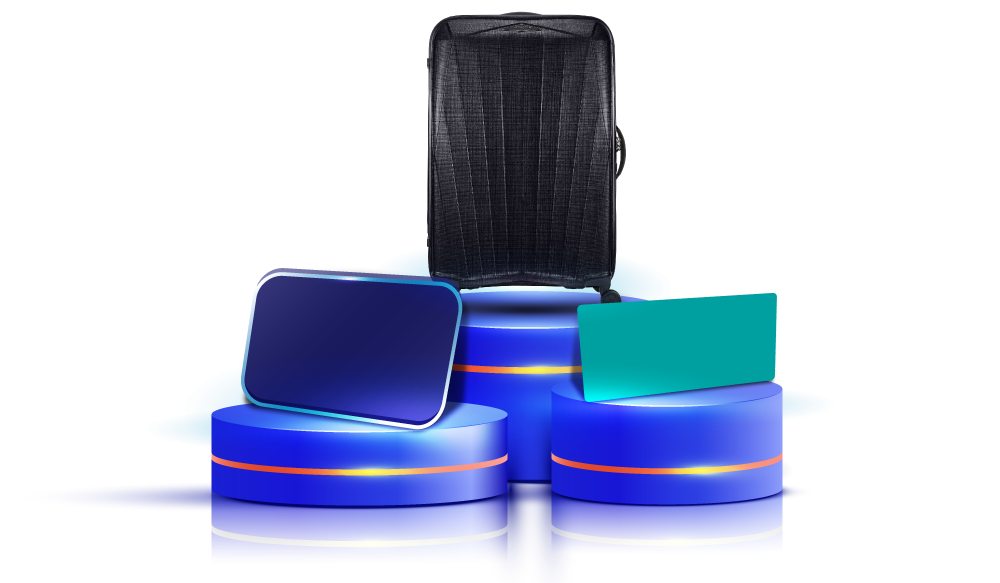
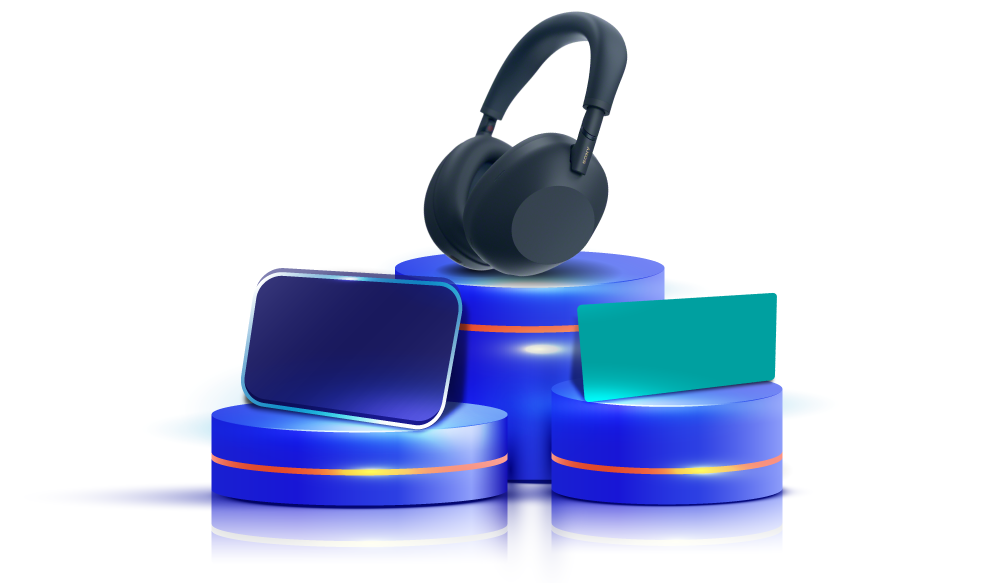
alfred

Changed region(s): [[0.372, 0.0, 0.682, 0.6792], [0.496, 0.8336, 0.558, 0.9262], [0.496, 0.7719, 0.527, 0.8027]]

diff --git a/index.html b/index.html
@@ -4,37 +4,74 @@
 <meta charset="utf-8">
 <meta name="viewport" content="width=device-width,initial-scale=1">
 <title>HLB Credit Card Mobile Wallet Rewards</title>
-<meta name="description" content="Apply for an HLB Credit Card, make 3 mobile wallet payments and stand a chance to win RM2,000 cashback, 20,000 Enrich Points or a Watsons RM2,000 e-voucher.">
+<meta name="description" content="Apply for an HLB Credit Card, make 3 mobile wallet payments and stand a chance to win RM2,000 cashback, Sony Wireless Noise Cancelling Headphones or a Watsons RM2,000 e-voucher.">
 <link rel="canonical" href="https://www.hlb.com.my/en/personal-banking/promotions/cards-acquisition-promotion.html">
 <meta property="og:type" content="website">
 <meta property="og:site_name" content="Hong Leong Bank Malaysia">
 <meta property="og:title" content="HLB Credit Card Mobile Wallet Rewards">
-<meta property="og:description" content="Apply for an HLB Credit Card and stand a chance to win RM2,000 cashback, 20,000 Enrich Points or a Watsons RM2,000 e-voucher.">
+<meta property="og:description" content="Apply for an HLB Credit Card and stand a chance to win RM2,000 cashback, Sony Wireless Noise Cancelling Headphones or a Watsons RM2,000 e-voucher.">
 <meta property="og:url" content="https://www.hlb.com.my/en/personal-banking/promotions/cards-acquisition-promotion.html">
-<meta property="og:image" content="https://www.hlb.com.my/en/personal-banking/promotions/images/HERO_4.png">
-<meta property="og:image:secure_url" content="https://www.hlb.com.my/en/personal-banking/promotions/images/HERO_4.png">
+<meta property="og:image" content="https://www.hlb.com.my/en/personal-banking/promotions/images/HERO.png">
+<meta property="og:image:secure_url" content="https://www.hlb.com.my/en/personal-banking/promotions/images/HERO.png">
 <meta property="og:image:type" content="image/png">
 <meta property="og:image:width" content="1000">
 <meta property="og:image:height" content="583">
-<meta property="og:image:alt" content="HLB Credit Card promotion prizes including 20,000 Enrich Points, RM2,000 cashback and a Watsons RM2,000 e-voucher">
+<meta property="og:image:alt" content="HLB Credit Card promotion prizes including Sony Wireless Noise Cancelling Headphones, RM2,000 cashback and a Watsons RM2,000 e-voucher">
 <link rel="preconnect" href="https://fonts.googleapis.com">
 <link rel="preconnect" href="https://fonts.gstatic.com" crossorigin>
 <link href="https://fonts.googleapis.com/css2?family=Noto+Sans:wght@400;700;800&family=Noto+Sans+Condensed:ital,wght@0,900;1,900&display=swap" rel="stylesheet">
 <style>
-.hlb_20260921_promotion_page{--ink:#0f1c45;width:100%;max-width:1000px;margin:0 auto;background:#fff;color:var(--ink);font-family:"Noto Sans",sans-serif;text-align:center;overflow:hidden}.hlb_20260921_promotion_page,.hlb_20260921_promotion_page *,.hlb_20260921_promotion_page *::before,.hlb_20260921_promotion_page *::after{box-sizing:border-box}.hlb_20260921_promotion_page :where(p){margin:0}.hlb_20260921_promotion_intro{max-width:700px;margin:auto;padding:53px 12px 0;font-size:19px;line-height:1.3}.hlb_20260921_promotion_intro p+p{margin-top:28px}.hlb_20260921_promotion_hero{margin-top:22px}.hlb_20260921_promotion_hero-art{position:relative;width:100%;container-type:inline-size}.hlb_20260921_promotion_hero-art img{display:block;width:100%;height:auto}.hlb_20260921_promotion_enrich-prize{position:absolute;z-index:1;top:9%;left:32.0%;display:flex;width:42%;flex-direction:column;align-items:center;color:#c99a2d;font-family:"Noto Sans",sans-serif;font-weight:800;line-height:.88;text-align:center;white-space:nowrap;cursor:text;user-select:text}.hlb_20260921_promotion_hero-art .hlb_20260921_promotion_enrich-logo{display:block;width:38%;height:auto;margin:0 0 .18em}.hlb_20260921_promotion_enrich-prize strong{font-size:84px;font-size:8.4cqw;line-height:.86;letter-spacing:-.055em;background:linear-gradient(180deg,#ffe27a 0%,#e5b83f 58%,#b98219 100%);background-clip:text;-webkit-background-clip:text;-webkit-text-fill-color:transparent;text-shadow:0 .02em .018em rgba(91,61,0,.16)}.hlb_20260921_promotion_enrich-prize span{margin-top:.22em;font-size:29px;font-size:2.9cqw;line-height:1;font-weight:800;letter-spacing:-.035em;color:#bf8d2c}.hlb_20260921_promotion_cashback-prize,.hlb_20260921_promotion_voucher-prize{position:absolute;z-index:1;display:flex;flex-direction:column;align-items:center;justify-content:center;font-family:"Arial Narrow","Noto Sans",Arial,sans-serif;font-weight:800;text-align:center;white-space:nowrap;cursor:text;user-select:text}.hlb_20260921_promotion_cashback-prize{top:46.7%;left:24.2%;width:22%;height:25.5%;color:#ffdc72;font-family:"Noto Sans Condensed","Noto Sans",sans-serif;font-size:35px;font-size:3.5cqw;font-style:normal;font-weight:900;line-height:.92;row-gap:.06em;letter-spacing:-.055em;text-shadow:0 .018em .015em rgba(76,52,0,.18);transform:rotate(6deg);transform-origin:center center}.hlb_20260921_promotion_cashback-prize span{color:#f2d36b;background-clip:text;-webkit-background-clip:text;-webkit-text-fill-color:transparent}.hlb_20260921_promotion_cashback-prize span:first-child{background-image:linear-gradient(180deg,#ffd45a 0%,#ffe486 48%,#fff3b0 100%)}.hlb_20260921_promotion_cashback-prize span:last-child{font-size:.88em;letter-spacing:-.045em;background-image:linear-gradient(180deg,#fff3b0 0%,#ffe486 48%,#f8ca4d 100%)}.hlb_20260921_promotion_voucher-prize{top:50.6%;left:58.8%;width:20%;height:17.5%;color:#fff;font-family:"Noto Sans",sans-serif;line-height:.92;transform:rotate(-5.5deg);transform-origin:center center;text-shadow:.018em .025em 0 rgba(0,67,72,.32)}.hlb_20260921_promotion_hero-art .hlb_20260921_promotion_watsons-logo{display:block;width:60%;height:auto;margin:0 0 .16em;transform:translateX(-3%)}.hlb_20260921_promotion_voucher-prize strong{font-size:24.5px;font-size:2.45cqw;font-weight:800;letter-spacing:-.035em}.hlb_20260921_promotion_voucher-prize span{margin-top:.17em;font-size:13px;font-size:1.3cqw;font-weight:700;letter-spacing:-.035em}.hlb_20260921_promotion_visually-hidden{position:absolute!important;width:1px!important;height:1px!important;padding:0!important;margin:-1px!important;overflow:hidden!important;clip:rect(0,0,0,0)!important;white-space:nowrap!important;border:0!important}.hlb_20260921_promotion_note{font-size:12px;font-style:italic}.hlb_20260921_promotion_winner{position:relative;width:min(329px,70%);margin:12px auto 17px}.hlb_20260921_promotion_winner img{display:block;width:100%;height:auto}.hlb_20260921_promotion_winner span{position:absolute;inset:0;display:flex;align-items:center;justify-content:center;transform:translateY(-1px);font-size:36px;font-weight:800;letter-spacing:4px;white-space:nowrap}.hlb_20260921_promotion_page h2{font-size:29px;margin:0;font-weight:800}.hlb_20260921_promotion_steps{display:flex;justify-content:center;align-items:center;gap:23px;margin:23px auto 0;padding:0 16px}.hlb_20260921_promotion_step{position:relative;width:304px;min-height:210px;flex:0 1 304px;border-radius:34px;box-shadow:0 7px 16px #0005;display:flex;flex-direction:column;align-items:center;justify-content:center;padding:47px 24px 16px}.hlb_20260921_promotion_step-label{position:absolute;top:0;left:50%;transform:translateX(-50%);width:220px;height:40px;background:url('images/Step-Title-Block.png') center/contain no-repeat;color:#fff;font-size:23px;font-weight:800;line-height:37px}.hlb_20260921_promotion_step strong{font-size:22px;line-height:1.08}.hlb_20260921_promotion_step p{font-size:16px;line-height:1.13;margin-top:6px}.hlb_20260921_promotion_step ul{font-size:14px;line-height:1.18;text-align:left;padding-left:18px;margin:6px 0 0}.hlb_20260921_promotion_arrow{width:30px;height:49px;flex:none}.hlb_20260921_promotion_welcome{margin-top:44px}.hlb_20260921_promotion_welcome h2:first-child{font-size:25px;line-height:1.25}.hlb_20260921_promotion_page .hlb_20260921_promotion_welcome-copy{display:block!important;width:100%!important;max-width:none!important;margin:14px 0 0!important;padding:0 12px;font-size:19px;line-height:1.35;text-align:center!important;float:none!important;clear:both!important;align-self:stretch!important}.hlb_20260921_promotion_page .hlb_20260921_promotion_welcome-copy>span{display:block;max-width:710px;margin:0 auto;text-align:center}.hlb_20260921_promotion_page .hlb_20260921_promotion_availability{display:block;width:100%;margin:26px auto 0;font-size:19px;text-align:center!important;float:none;clear:both}.hlb_20260921_promotion_cashback{display:block;width:min(547px,82%);height:auto;margin:35px auto 22px}.hlb_20260921_promotion_wallets{display:flex;justify-content:center;align-items:center;gap:40px;margin:51px auto 0;padding:0 20px}.hlb_20260921_promotion_wallets img{height:71px;width:auto;object-fit:contain}.hlb_20260921_promotion_wallets img:last-child{height:70px}.hlb_20260921_promotion_apply{display:block;width:min(271px,72vw);height:auto;margin:35px auto 0;transition:transform .22s ease,filter .22s ease}.hlb_20260921_promotion_apply img{display:block;width:100%;height:auto;transition:filter .22s ease;filter:drop-shadow(0 5px 4px rgba(15,28,69,.28))}.hlb_20260921_promotion_apply:hover{transform:translateY(-5px) scale(1.08);filter:brightness(1.13) saturate(1.18)}.hlb_20260921_promotion_apply:hover img{filter:drop-shadow(0 12px 8px rgba(245,34,71,.42))}.hlb_20260921_promotion_apply:active{transform:translateY(-1px) scale(1.03)}.hlb_20260921_promotion_apply:focus-visible{outline:3px solid var(--ink);outline-offset:5px;border-radius:12px}.hlb_20260921_promotion_collaboration{margin-top:34px;font-size:21px}.hlb_20260921_promotion_visa{display:block;width:min(124px,38vw);height:auto;margin:22px auto 0}.hlb_20260921_promotion_page footer{font-size:15px;margin:40px auto 27px;padding:0 15px}
+.hlb_20260921_promotion_page{--ink:#0f1c45;width:100%;max-width:1000px;margin:0 auto;background:#fff;color:var(--ink);font-family:"Noto Sans",sans-serif;text-align:center;overflow:hidden}.hlb_20260921_promotion_page,.hlb_20260921_promotion_page *,.hlb_20260921_promotion_page *::before,.hlb_20260921_promotion_page *::after{box-sizing:border-box}.hlb_20260921_promotion_page :where(p){margin:0}.hlb_20260921_promotion_intro{max-width:700px;margin:auto;padding:53px 12px 0;font-size:19px;line-height:1.3}.hlb_20260921_promotion_intro p+p{margin-top:28px}.hlb_20260921_promotion_hero{margin-top:22px}.hlb_20260921_promotion_hero-art{position:relative;width:100%;container-type:inline-size}.hlb_20260921_promotion_hero-art img{display:block;width:100%;height:auto}.hlb_20260921_promotion_headphones{position:absolute;top:22%;right:60%;width:22%;font-size:clamp(15px,2cqw,20px);font-weight:800;line-height:1;text-align:right;white-space:nowrap}.hlb_20260921_promotion_cashback-prize,.hlb_20260921_promotion_voucher-prize{position:absolute;z-index:1;display:flex;flex-direction:column;align-items:center;justify-content:center;font-family:"Arial Narrow","Noto Sans",Arial,sans-serif;font-weight:800;text-align:center;white-space:nowrap;cursor:text;user-select:text}.hlb_20260921_promotion_cashback-prize{top:46.7%;left:24.2%;width:22%;height:25.5%;color:#ffdc72;font-family:"Noto Sans Condensed","Noto Sans",sans-serif;font-size:35px;font-size:3.5cqw;font-style:normal;font-weight:900;line-height:.92;row-gap:.06em;letter-spacing:-.055em;text-shadow:0 .018em .015em rgba(76,52,0,.18);transform:rotate(6deg);transform-origin:center center}.hlb_20260921_promotion_cashback-prize span{color:#f2d36b;background-clip:text;-webkit-background-clip:text;-webkit-text-fill-color:transparent}.hlb_20260921_promotion_cashback-prize span:first-child{background-image:linear-gradient(180deg,#ffd45a 0%,#ffe486 48%,#fff3b0 100%)}.hlb_20260921_promotion_cashback-prize span:last-child{font-size:.88em;letter-spacing:-.045em;background-image:linear-gradient(180deg,#fff3b0 0%,#ffe486 48%,#f8ca4d 100%)}.hlb_20260921_promotion_voucher-prize{top:50.6%;left:58.8%;width:20%;height:17.5%;color:#fff;font-family:"Noto Sans",sans-serif;line-height:.92;transform:rotate(-5.5deg);transform-origin:center center;text-shadow:.018em .025em 0 rgba(0,67,72,.32)}.hlb_20260921_promotion_hero-art .hlb_20260921_promotion_watsons-logo{display:block;width:60%;height:auto;margin:0 0 .16em;transform:translateX(-3%)}.hlb_20260921_promotion_voucher-prize strong{font-size:24.5px;font-size:2.45cqw;font-weight:800;letter-spacing:-.035em}.hlb_20260921_promotion_voucher-prize span{margin-top:.17em;font-size:13px;font-size:1.3cqw;font-weight:700;letter-spacing:-.035em}.hlb_20260921_promotion_visually-hidden{position:absolute!important;width:1px!important;height:1px!important;padding:0!important;margin:-1px!important;overflow:hidden!important;clip:rect(0,0,0,0)!important;white-space:nowrap!important;border:0!important}.hlb_20260921_promotion_note{font-size:12px;font-style:italic}.hlb_20260921_promotion_winner{position:relative;width:min(329px,70%);margin:12px auto 17px}.hlb_20260921_promotion_winner img{display:block;width:100%;height:auto}.hlb_20260921_promotion_winner span{position:absolute;inset:0;display:flex;align-items:center;justify-content:center;transform:translateY(-1px);font-size:36px;font-weight:800;letter-spacing:4px;white-space:nowrap}.hlb_20260921_promotion_page h2{font-size:29px;margin:0;font-weight:800}.hlb_20260921_promotion_steps{display:flex;justify-content:center;align-items:center;gap:23px;margin:23px auto 0;padding:0 16px}.hlb_20260921_promotion_step{position:relative;width:304px;min-height:210px;flex:0 1 304px;border-radius:34px;box-shadow:0 7px 16px #0005;display:flex;flex-direction:column;align-items:center;justify-content:center;padding:47px 24px 16px}.hlb_20260921_promotion_step-label{position:absolute;top:0;left:50%;transform:translateX(-50%);width:220px;height:40px;background:url('images/Step-Title-Block.png') center/contain no-repeat;color:#fff;font-size:23px;font-weight:800;line-height:37px}.hlb_20260921_promotion_step strong{font-size:22px;line-height:1.08}.hlb_20260921_promotion_step p{font-size:16px;line-height:1.13;margin-top:6px}.hlb_20260921_promotion_step ul{font-size:14px;line-height:1.18;text-align:left;padding-left:18px;margin:6px 0 0}.hlb_20260921_promotion_arrow{width:30px;height:49px;flex:none}.hlb_20260921_promotion_welcome{margin-top:44px}.hlb_20260921_promotion_welcome h2:first-child{font-size:25px;line-height:1.25}.hlb_20260921_promotion_page .hlb_20260921_promotion_welcome-copy{display:block!important;width:100%!important;max-width:none!important;margin:14px 0 0!important;padding:0 12px;font-size:19px;line-height:1.35;text-align:center!important;float:none!important;clear:both!important;align-self:stretch!important}.hlb_20260921_promotion_page .hlb_20260921_promotion_welcome-copy>span{display:block;max-width:710px;margin:0 auto;text-align:center}.hlb_20260921_promotion_page .hlb_20260921_promotion_availability{display:block;width:100%;margin:26px auto 0;font-size:19px;text-align:center!important;float:none;clear:both}.hlb_20260921_promotion_cashback{display:block;width:min(547px,82%);height:auto;margin:35px auto 22px}.hlb_20260921_promotion_wallets{display:flex;justify-content:center;align-items:center;gap:40px;margin:51px auto 0;padding:0 20px}.hlb_20260921_promotion_wallets img{height:71px;width:auto;object-fit:contain}.hlb_20260921_promotion_wallets img:last-child{height:70px}.hlb_20260921_promotion_apply{display:block;width:min(271px,72vw);height:auto;margin:35px auto 0;transition:transform .22s ease,filter .22s ease}.hlb_20260921_promotion_apply img{display:block;width:100%;height:auto;transition:filter .22s ease;filter:drop-shadow(0 5px 4px rgba(15,28,69,.28))}.hlb_20260921_promotion_apply:hover{transform:translateY(-5px) scale(1.08);filter:brightness(1.13) saturate(1.18)}.hlb_20260921_promotion_apply:hover img{filter:drop-shadow(0 12px 8px rgba(245,34,71,.42))}.hlb_20260921_promotion_apply:active{transform:translateY(-1px) scale(1.03)}.hlb_20260921_promotion_apply:focus-visible{outline:3px solid var(--ink);outline-offset:5px;border-radius:12px}.hlb_20260921_promotion_collaboration{margin-top:34px;font-size:21px}.hlb_20260921_promotion_visa{display:block;width:min(124px,38vw);height:auto;margin:22px auto 0}.hlb_20260921_promotion_page footer{font-size:15px;margin:40px auto 27px;padding:0 15px}
 
-@media(max-width:700px){.cc-applynow a.cta-btn.fixed{position:relative!important;top:auto!important;right:auto!important;bottom:auto!important;left:auto!important;width:100%!important}.hlb_20260921_promotion_page .hlb_20260921_promotion_welcome h2:first-child{font-size:25px;line-height:1.25}.hlb_20260921_promotion_cashback{width:min(500px,76%)}.hlb_20260921_promotion_intro{padding-top:30px;font-size:16px}.hlb_20260921_promotion_page h2{font-size:25px}.hlb_20260921_promotion_steps{gap:12px}.hlb_20260921_promotion_step{min-height:190px;padding:45px 14px 12px;border-radius:24px}.hlb_20260921_promotion_step-label{width:min(190px,75%);font-size:19px}.hlb_20260921_promotion_step strong{font-size:clamp(15px,3vw,20px)}.hlb_20260921_promotion_step p{font-size:clamp(12px,2.5vw,16px)}.hlb_20260921_promotion_step ul{font-size:clamp(11px,2.3vw,14px)}.hlb_20260921_promotion_arrow{width:20px;height:auto}.hlb_20260921_promotion_page .hlb_20260921_promotion_welcome-copy,.hlb_20260921_promotion_page .hlb_20260921_promotion_availability{font-size:16px}.hlb_20260921_promotion_wallets{gap:24px;padding:0 20px}.hlb_20260921_promotion_wallets img,.hlb_20260921_promotion_wallets img:last-child{max-width:25%;height:auto}}
-@media(max-width:480px){.hlb_20260921_promotion_hero-art{width:min(500px,130vw);max-width:none;margin-left:50%;transform:translateX(-50%)}.hlb_20260921_promotion_winner span{font-size:clamp(22px,7vw,36px);letter-spacing:2px}.hlb_20260921_promotion_step ul{font-size:13px;line-height:1.22}.hlb_20260921_promotion_intro{font-size:15px;padding-left:20px;padding-right:20px}.hlb_20260921_promotion_intro p+p{margin-top:20px}.hlb_20260921_promotion_steps{flex-direction:column;gap:14px}.hlb_20260921_promotion_step{width:min(304px,100%);min-height:185px;flex:auto}.hlb_20260921_promotion_arrow{transform:rotate(90deg);width:25px}.hlb_20260921_promotion_page .hlb_20260921_promotion_welcome-copy,.hlb_20260921_promotion_page .hlb_20260921_promotion_availability{padding:0 20px}.hlb_20260921_promotion_collaboration{font-size:18px}.hlb_20260921_promotion_page footer{font-size:13px}}
+@media(max-width:700px){.hlb_20260921_promotion_headphones{font-size:clamp(10px,2vw,15px)}.cc-applynow a.cta-btn.fixed{position:relative!important;top:auto!important;right:auto!important;bottom:auto!important;left:auto!important;width:100%!important}.hlb_20260921_promotion_page .hlb_20260921_promotion_welcome h2:first-child{font-size:25px;line-height:1.25}.hlb_20260921_promotion_cashback{width:min(500px,76%)}.hlb_20260921_promotion_intro{padding-top:30px;font-size:16px}.hlb_20260921_promotion_page h2{font-size:25px}.hlb_20260921_promotion_steps{gap:12px}.hlb_20260921_promotion_step{min-height:190px;padding:45px 14px 12px;border-radius:24px}.hlb_20260921_promotion_step-label{width:min(190px,75%);font-size:19px}.hlb_20260921_promotion_step strong{font-size:clamp(15px,3vw,20px)}.hlb_20260921_promotion_step p{font-size:clamp(12px,2.5vw,16px)}.hlb_20260921_promotion_step ul{font-size:clamp(11px,2.3vw,14px)}.hlb_20260921_promotion_arrow{width:20px;height:auto}.hlb_20260921_promotion_page .hlb_20260921_promotion_welcome-copy,.hlb_20260921_promotion_page .hlb_20260921_promotion_availability{font-size:16px}.hlb_20260921_promotion_wallets{gap:24px;padding:0 20px}.hlb_20260921_promotion_wallets img,.hlb_20260921_promotion_wallets img:last-child{max-width:25%;height:auto}}
+@media(max-width:480px){.hlb_20260921_promotion_headphones{font-size:clamp(9px,2.6vw,12px)}.hlb_20260921_promotion_hero-art{width:min(500px,130vw);max-width:none;margin-left:50%;transform:translateX(-50%)}.hlb_20260921_promotion_winner span{font-size:clamp(22px,7vw,36px);letter-spacing:2px}.hlb_20260921_promotion_step ul{font-size:13px;line-height:1.22}.hlb_20260921_promotion_intro{font-size:15px;padding-left:20px;padding-right:20px}.hlb_20260921_promotion_intro p+p{margin-top:20px}.hlb_20260921_promotion_steps{flex-direction:column;gap:14px}.hlb_20260921_promotion_step{width:min(304px,100%);min-height:185px;flex:auto}.hlb_20260921_promotion_arrow{transform:rotate(90deg);width:25px}.hlb_20260921_promotion_page .hlb_20260921_promotion_welcome-copy,.hlb_20260921_promotion_page .hlb_20260921_promotion_availability{padding:0 20px}.hlb_20260921_promotion_collaboration{font-size:18px}.hlb_20260921_promotion_page footer{font-size:13px}}
 @media(prefers-reduced-motion:reduce){.hlb_20260921_promotion_page,.hlb_20260921_promotion_page *{scroll-behavior:auto!important}.hlb_20260921_promotion_apply,.hlb_20260921_promotion_apply img{transition:none}.hlb_20260921_promotion_apply:hover{transform:none}}
+</style>
+<style>
+/* Scoped CSS scroll-driven motion */
+.hlb_20260921_promotion_hero-art>img,.hlb_20260921_promotion_winner,.hlb_20260921_promotion_cashback{transform-origin:center center}
+.hlb_20260921_promotion_headphones-copy{display:block;animation:hlb_20260921_promotion_float-a 4.8s ease-in-out infinite}
+.hlb_20260921_promotion_cashback-prize>span{animation:hlb_20260921_promotion_float-b 5.2s ease-in-out .2s infinite}
+.hlb_20260921_promotion_voucher-prize>*{animation:hlb_20260921_promotion_float-a 4.6s ease-in-out .4s infinite}
+.hlb_20260921_promotion_apply{position:relative;overflow:hidden;border-radius:18px;view-timeline-name:--hlb_20260921_promotion_apply-timeline;view-timeline-axis:block}
+.hlb_20260921_promotion_apply::after{content:"";position:absolute;top:-30%;bottom:-30%;left:-55%;width:32%;pointer-events:none;background:linear-gradient(100deg,transparent,rgba(255,255,255,.72),transparent);transform:skewX(-18deg)}
+.hlb_20260921_promotion_apply::before{content:"";position:absolute;inset:3px;z-index:-1;border-radius:18px;box-shadow:0 0 0 0 rgba(245,34,71,0);animation:hlb_20260921_promotion_cta-breathe 2.8s ease-in-out infinite}
+
+.hlb_20260921_promotion_scroll-scrub .hlb_20260921_promotion_apply::after{left:calc(-55% + (var(--hlb_20260921_promotion_scroll-progress,0) * 180%))}
+
+@keyframes hlb_20260921_promotion_hero-left{from{opacity:0;translate:-38px 18px}to{opacity:1;translate:0 0}}
+@keyframes hlb_20260921_promotion_hero-right{from{opacity:0;translate:38px 18px}to{opacity:1;translate:0 0}}
+@keyframes hlb_20260921_promotion_reveal-left{from{opacity:0;translate:-28px 0}to{opacity:1;translate:0 0}}
+@keyframes hlb_20260921_promotion_reveal-right{from{opacity:0;translate:28px 0}to{opacity:1;translate:0 0}}
+@keyframes hlb_20260921_promotion_reveal-up{from{opacity:0;translate:0 22px}to{opacity:1;translate:0 0}}
+@keyframes hlb_20260921_promotion_float-a{0%,100%{translate:0 0}50%{translate:0 -5px}}
+@keyframes hlb_20260921_promotion_float-b{0%,100%{translate:0 0}50%{translate:0 -7px}}
+@keyframes hlb_20260921_promotion_cta-shine{from{left:-55%}to{left:125%}}
+@keyframes hlb_20260921_promotion_cta-breathe{0%,100%{box-shadow:0 0 0 0 rgba(245,34,71,0)}50%{box-shadow:0 0 0 9px rgba(245,34,71,.18)}}
+
+@media(prefers-reduced-motion:reduce){
+.hlb_20260921_promotion_headphones,
+.hlb_20260921_promotion_headphones-copy,
+.hlb_20260921_promotion_cashback-prize,
+.hlb_20260921_promotion_cashback-prize>span,
+.hlb_20260921_promotion_voucher-prize,
+.hlb_20260921_promotion_voucher-prize>*,
+.hlb_20260921_promotion_steps>*,
+.hlb_20260921_promotion_wallets>img,
+.hlb_20260921_promotion_apply,
+.hlb_20260921_promotion_apply::before,
+.hlb_20260921_promotion_apply::after{opacity:1;translate:0 0;animation:none!important}
+.hlb_20260921_promotion_apply::after{display:none}
+}
 </style>
 </head>
 <body>
 <main class="hlb_20260921_promotion_page">
 <section class="hlb_20260921_promotion_intro" aria-label="HLB Credit Card promotion">
 <p>Whether you’re looking for extra Cashback, more Rewards, or earn Travel Miles faster, there’s an HLB Credit Card designed to give you more.</p>
-<p>Apply today and with just 3 mobile wallet payments, you stand a chance to win a prize of your choice, either <strong>RM2,000 Cashback, 20,000 Enrich Points or Watsons E-voucher In-store.</strong> Plus, enjoy a first-year annual fee waiver on selected cards.</p>
+<p>Apply today and with just 3 mobile wallet payments, you stand a chance to win a prize of your choice, either <strong>RM2,000 Cashback, Sony Wireless Noise Cancelling Headphones or Watsons E-voucher In-store.</strong> Plus, enjoy a first-year annual fee waiver on selected cards.</p>
 </section>
-<div class="hlb_20260921_promotion_hero"><div class="hlb_20260921_promotion_hero-art"><img src="images/HERO_4.png" alt="HLB Credit Card promotion prizes: 20,000 Enrich Points, RM2,000 cashback and a Watsons RM2,000 e-voucher" width="1000" height="583"><span class="hlb_20260921_promotion_enrich-prize"><img class="hlb_20260921_promotion_enrich-logo" src="images/Enrich-Logo.png" alt="Enrich" width="172" height="44"><strong>20,000</strong><span>ENRICH POINTS</span></span><span class="hlb_20260921_promotion_cashback-prize" aria-label="RM2,000 Cashback"><span>RM2,000</span><span>CASHBACK*</span></span><span class="hlb_20260921_promotion_voucher-prize"><img class="hlb_20260921_promotion_watsons-logo" src="images/watsons.png" alt="Watsons" width="4800" height="1055"><strong>RM2,000</strong><span>E-voucher In-store</span></span></div></div>
+<div class="hlb_20260921_promotion_hero"><div class="hlb_20260921_promotion_hero-art"><img src="images/HERO_3.png" alt="HLB Credit Card promotion prizes: Sony Wireless Noise Cancelling Headphones, RM2,000 cashback and a Watsons RM2,000 e-voucher" width="1000" height="583"><span class="hlb_20260921_promotion_headphones"><span class="hlb_20260921_promotion_headphones-copy">Sony Wireless Noise<br>Cancelling Headphones<br>(WH-1000XM6)</span></span><span class="hlb_20260921_promotion_cashback-prize" aria-label="RM2,000 Cashback"><span>RM2,000</span><span>CASHBACK*</span></span><span class="hlb_20260921_promotion_voucher-prize"><img class="hlb_20260921_promotion_watsons-logo" src="images/watsons.png" alt="Watsons" width="4800" height="1055"><strong>RM2,000</strong><span>E-voucher In-store</span></span></div></div>
 <p class="hlb_20260921_promotion_note">Image shown is for illustration purpose only</p>
 <div class="hlb_20260921_promotion_winner" role="img" aria-label="x8 winners"><img src="images/Winner-Button2.png" alt="x8 winners" width="329" height="56"></div>
 <section aria-labelledby="main-steps"><h2 id="main-steps">How it works:</h2>
@@ -56,4 +93,108 @@
 <a class="hlb_20260921_promotion_apply" href="https://www.hlb.com.my/en/form/credit-card.html?icp=hlb-en-promo-cta-txt-cc-q25" aria-label="Apply Now for an HLB Credit Card"><img src="images/CTA-Button.png" alt="Apply Now" width="271" height="84"></a>
 <p class="hlb_20260921_promotion_collaboration">In collaboration with</p><img class="hlb_20260921_promotion_visa" src="images/VISA-logo.png" alt="Visa" width="154" height="50">
 <footer>Terms and Conditions apply. Pictures shown are for illustration purposes only.</footer>
-</main></body></html>
+</main><script>
+(function(){
+  var root=document.querySelector('.hlb_20260921_promotion_page');
+  if(!root)return;
+  var reduceMotion=window.matchMedia('(prefers-reduced-motion: reduce)');
+  var clamp=function(value){return Math.max(0,Math.min(1,value))};
+  var groups=[];
+
+  function addGroup(container,items){
+    if(container&&items.length)groups.push({container:container,items:items});
+  }
+  function item(element,x,y,delay){return{element:element,x:x,y:y,delay:delay||0}}
+  function progressFor(container,viewport){
+    var rect=container.getBoundingClientRect();
+    return clamp((viewport*.95-rect.top)/(viewport*.40));
+  }
+  function overshoot(progress,start,peak){
+    return progress<.8?start+(peak-start)*(progress/.8):peak+(1-peak)*((progress-.8)/.2);
+  }
+
+  var hero=root.querySelector('.hlb_20260921_promotion_hero-art');
+  var heroImage=hero&&hero.firstElementChild;
+  addGroup(hero,[
+    item(root.querySelector('.hlb_20260921_promotion_headphones'),-38,18,0),
+    item(root.querySelector('.hlb_20260921_promotion_cashback-prize'),-38,18,.12),
+    item(root.querySelector('.hlb_20260921_promotion_voucher-prize'),38,18,.24)
+  ].filter(function(entry){return entry.element}));
+
+  var winner=root.querySelector('.hlb_20260921_promotion_winner');
+  var welcome=root.querySelector('.hlb_20260921_promotion_welcome');
+  if(welcome)addGroup(welcome,[
+    item(welcome.querySelector('h2'),0,20,0),
+    item(welcome.querySelector('.hlb_20260921_promotion_welcome-copy'),0,20,.10),
+    item(welcome.querySelector('.hlb_20260921_promotion_availability'),0,20,.18)
+  ].filter(function(entry){return entry.element}));
+  var rm188=root.querySelector('.hlb_20260921_promotion_cashback');
+
+  root.querySelectorAll('.hlb_20260921_promotion_steps').forEach(function(steps){
+    var children=steps.children;
+    addGroup(steps,[item(children[0],-28,0,0),item(children[1],0,22,.12),item(children[2],28,0,.24)].filter(function(entry){return entry.element}));
+  });
+
+  var wallets=root.querySelector('.hlb_20260921_promotion_wallets');
+  if(wallets)addGroup(wallets,Array.from(wallets.children).map(function(logo,index){return item(logo,0,22,index*.12)}));
+  var apply=root.querySelector('.hlb_20260921_promotion_apply');
+  if(apply)addGroup(apply,[item(apply,0,22,0)]);
+  var collaboration=root.querySelector('.hlb_20260921_promotion_collaboration');
+  var visa=root.querySelector('.hlb_20260921_promotion_visa');
+  if(collaboration)addGroup(collaboration,[item(collaboration,0,16,0),item(visa,0,16,.16)].filter(function(entry){return entry.element}));
+
+  var special=[heroImage,winner,rm188].filter(Boolean);
+  function clearMotion(){
+    groups.forEach(function(group){group.items.forEach(function(entry){entry.element.style.removeProperty('opacity');entry.element.style.removeProperty('translate')})});
+    special.forEach(function(element){element.style.removeProperty('opacity');element.style.removeProperty('translate');element.style.removeProperty('scale');element.style.removeProperty('filter')});
+    if(apply)apply.style.removeProperty('--hlb_20260921_promotion_scroll-progress');
+  }
+
+  function render(){
+    if(reduceMotion.matches){clearMotion();return}
+    var viewport=window.innerHeight||document.documentElement.clientHeight;
+    groups.forEach(function(group){
+      var base=progressFor(group.container,viewport);
+      group.items.forEach(function(entry){
+        var progress=clamp((base-entry.delay)/(1-entry.delay));
+        entry.element.style.opacity=progress.toFixed(3);
+        entry.element.style.translate=((entry.x*(1-progress)).toFixed(2))+'px '+((entry.y*(1-progress)).toFixed(2))+'px';
+      });
+      if(group.container===apply)apply.style.setProperty('--hlb_20260921_promotion_scroll-progress',base.toFixed(3));
+    });
+
+    if(heroImage){
+      var heroProgress=progressFor(hero,viewport);
+      heroImage.style.opacity=(.55+heroProgress*.45).toFixed(3);
+      heroImage.style.scale=(.96+heroProgress*.04).toFixed(3);
+      heroImage.style.filter='brightness('+(.92+heroProgress*.08).toFixed(3)+') saturate('+(.95+heroProgress*.10).toFixed(3)+')';
+    }
+    if(winner){
+      var winnerProgress=progressFor(winner,viewport);
+      winner.style.opacity=winnerProgress.toFixed(3);
+      winner.style.translate='0 '+(18*(1-winnerProgress)).toFixed(2)+'px';
+      winner.style.scale=overshoot(winnerProgress,.82,1.04).toFixed(3);
+    }
+    if(rm188){
+      var cashbackProgress=progressFor(rm188,viewport);
+      rm188.style.opacity=cashbackProgress.toFixed(3);
+      rm188.style.translate='0 '+(35*(1-cashbackProgress)).toFixed(2)+'px';
+      rm188.style.scale=overshoot(cashbackProgress,.90,1.03).toFixed(3);
+    }
+  }
+
+  var queued=false;
+  function requestRender(){
+    if(queued)return;
+    queued=true;
+    requestAnimationFrame(function(){queued=false;render()});
+  }
+
+  root.classList.add('hlb_20260921_promotion_scroll-scrub');
+  render();
+  window.addEventListener('scroll',requestRender,{passive:true});
+  window.addEventListener('resize',requestRender,{passive:true});
+  if(reduceMotion.addEventListener)reduceMotion.addEventListener('change',requestRender);
+})();
+</script>
+</body></html>
